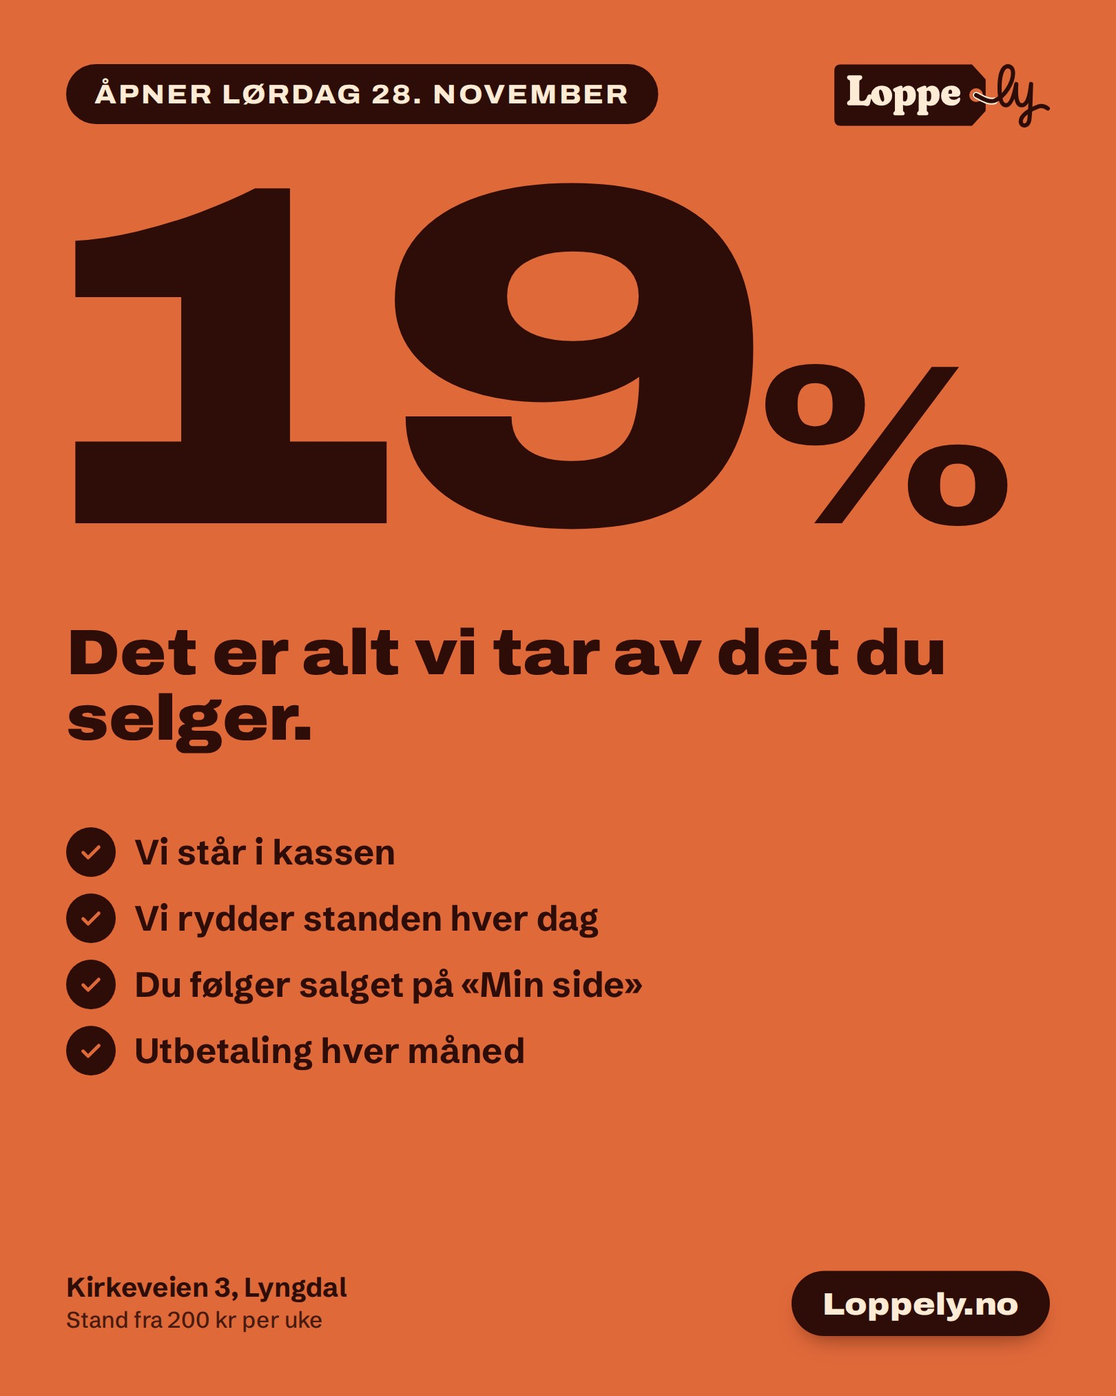
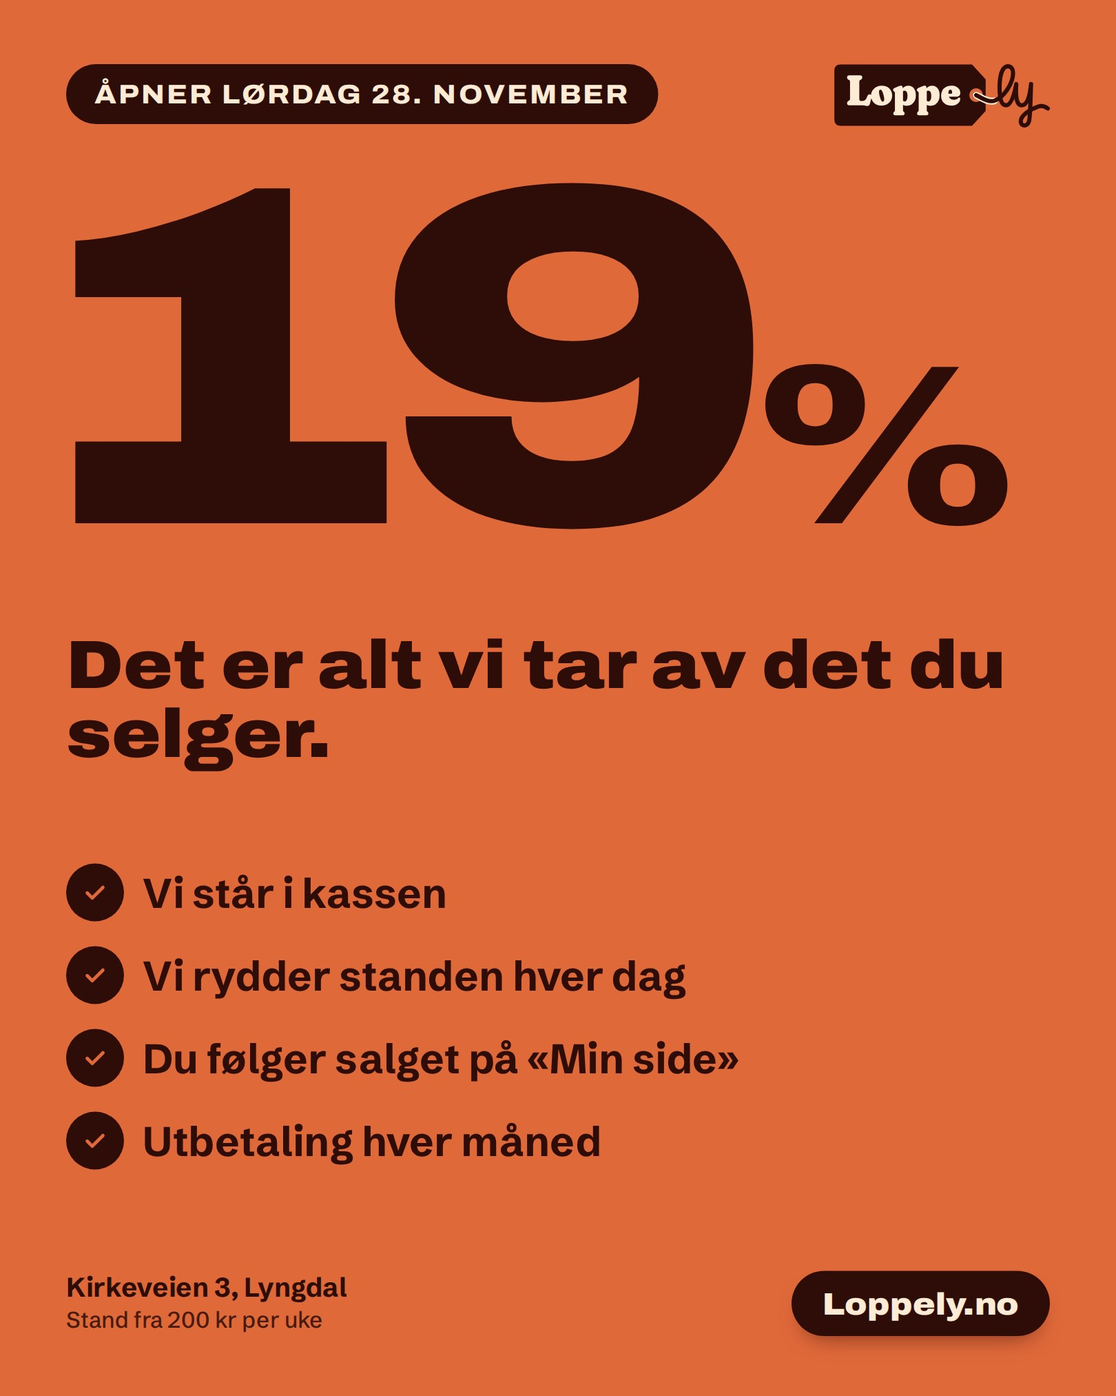
ads: polish pass on the new posts (spacing, bigger type, fuller receipt)
Claude-Session: https://claude.ai/code/session_01RRhAi942qst8ZUNjrS2TNS

Changed region(s): [[0.0617, 0.5911, 0.679, 0.84], [0.0617, 0.4356, 0.8951, 0.56]]

diff --git a/ads/index.html b/ads/index.html
@@ -47,7 +47,7 @@ footer a{color:inherit}
   </div>
   <div class="grid">
   <article class="card" id="01-konsept">
-    <a class="img" href="01-konsept.jpg?v=09291029" target="_blank"><img src="01-konsept.jpg?v=09291029" width="1620" height="2025" loading="lazy" alt="Konseptet på ett bilde"></a>
+    <a class="img" href="01-konsept.jpg?v=09291031" target="_blank"><img src="01-konsept.jpg?v=09291031" width="1620" height="2025" loading="lazy" alt="Konseptet på ett bilde"></a>
     <div class="body">
       <h2>Konseptet på ett bilde</h2>
       <p class="when">Første innlegg. Fest det øverst på siden.</p>
@@ -58,11 +58,11 @@ Loppely er et nytt loppesupermarked i Kirkeveien 3 i Lyngdal. Du leier en stand,
 Vi åpner lørdag 28. november.
 
 Les mer og meld interesse på Loppely.no</pre>
-      <div class="btns"><button class="btn copy" type="button">Kopier tekst</button><a class="btn ghost" href="01-konsept.jpg?v=09291029" download="01-konsept.jpg">Last ned bilde</a></div>
+      <div class="btns"><button class="btn copy" type="button">Kopier tekst</button><a class="btn ghost" href="01-konsept.jpg?v=09291031" download="01-konsept.jpg">Last ned bilde</a></div>
     </div>
   </article>
   <article class="card" id="02-slik-funker-det">
-    <a class="img" href="02-slik-funker-det.jpg?v=09291029" target="_blank"><img src="02-slik-funker-det.jpg?v=09291029" width="1620" height="2025" loading="lazy" alt="Slik funker det"></a>
+    <a class="img" href="02-slik-funker-det.jpg?v=09291031" target="_blank"><img src="02-slik-funker-det.jpg?v=09291031" width="1620" height="2025" loading="lazy" alt="Slik funker det"></a>
     <div class="body">
       <h2>Slik funker det</h2>
       <p class="when">Uke 1. Forklarer konseptet steg for steg.</p>
@@ -77,11 +77,11 @@ Du trenger ikke stå der selv. Følg salget på «Min side».
 
 Åpner lørdag 28. november i Kirkeveien 3, Lyngdal.
 Loppely.no</pre>
-      <div class="btns"><button class="btn copy" type="button">Kopier tekst</button><a class="btn ghost" href="02-slik-funker-det.jpg?v=09291029" download="02-slik-funker-det.jpg">Last ned bilde</a></div>
+      <div class="btns"><button class="btn copy" type="button">Kopier tekst</button><a class="btn ghost" href="02-slik-funker-det.jpg?v=09291031" download="02-slik-funker-det.jpg">Last ned bilde</a></div>
     </div>
   </article>
   <article class="card" id="03-her-er-vi">
-    <a class="img" href="03-her-er-vi.jpg?v=09291029" target="_blank"><img src="03-her-er-vi.jpg?v=09291029" width="1620" height="2025" loading="lazy" alt="Her finner du oss"></a>
+    <a class="img" href="03-her-er-vi.jpg?v=09291031" target="_blank"><img src="03-her-er-vi.jpg?v=09291031" width="1620" height="2025" loading="lazy" alt="Her finner du oss"></a>
     <div class="body">
       <h2>Her finner du oss</h2>
       <p class="when">Uke 2, og igjen uka før åpning.</p>
@@ -93,11 +93,11 @@ Loppely ligger i Kirkeveien 3, midt i Lyngdal sentrum. Gå rett ned trappen, så
 Vi åpner lørdag 28. november.
 
 Veibeskrivelse på Loppely.no</pre>
-      <div class="btns"><button class="btn copy" type="button">Kopier tekst</button><a class="btn ghost" href="03-her-er-vi.jpg?v=09291029" download="03-her-er-vi.jpg">Last ned bilde</a></div>
+      <div class="btns"><button class="btn copy" type="button">Kopier tekst</button><a class="btn ghost" href="03-her-er-vi.jpg?v=09291031" download="03-her-er-vi.jpg">Last ned bilde</a></div>
     </div>
   </article>
   <article class="card" id="04-priser">
-    <a class="img" href="04-priser.jpg?v=09291029" target="_blank"><img src="04-priser.jpg?v=09291029" width="1620" height="2025" loading="lazy" alt="Priser"></a>
+    <a class="img" href="04-priser.jpg?v=09291031" target="_blank"><img src="04-priser.jpg?v=09291031" width="1620" height="2025" loading="lazy" alt="Priser"></a>
     <div class="body">
       <h2>Priser</h2>
       <p class="when">Uke 2. Svarer på «hva koster det?».</p>
@@ -110,11 +110,11 @@ VIP: fra 349 kr per uke og 29% provisjon. Du leverer varene, vi gjør resten.
 Alle priser inkluderer mva. Laveste pris gjelder ved leie i 4 uker.
 
 Se alt på Loppely.no</pre>
-      <div class="btns"><button class="btn copy" type="button">Kopier tekst</button><a class="btn ghost" href="04-priser.jpg?v=09291029" download="04-priser.jpg">Last ned bilde</a></div>
+      <div class="btns"><button class="btn copy" type="button">Kopier tekst</button><a class="btn ghost" href="04-priser.jpg?v=09291031" download="04-priser.jpg">Last ned bilde</a></div>
     </div>
   </article>
   <article class="card" id="05-utbetalt">
-    <a class="img" href="05-utbetalt.jpg?v=09291029" target="_blank"><img src="05-utbetalt.jpg?v=09291029" width="1620" height="2025" loading="lazy" alt="Dette får du utbetalt"></a>
+    <a class="img" href="05-utbetalt.jpg?v=09291031" target="_blank"><img src="05-utbetalt.jpg?v=09291031" width="1620" height="2025" loading="lazy" alt="Dette får du utbetalt"></a>
     <div class="body">
       <h2>Dette får du utbetalt</h2>
       <p class="when">Uke 3. Gjør regnestykket konkret.</p>
@@ -125,11 +125,11 @@ Selger du noe for 500 kr hos Loppely, får du 405 kr. Provisjonen er 19%, og den
 Pengene betales ut til kontoen din hver måned.
 
 Regn på flere eksempler på Loppely.no</pre>
-      <div class="btns"><button class="btn copy" type="button">Kopier tekst</button><a class="btn ghost" href="05-utbetalt.jpg?v=09291029" download="05-utbetalt.jpg">Last ned bilde</a></div>
+      <div class="btns"><button class="btn copy" type="button">Kopier tekst</button><a class="btn ghost" href="05-utbetalt.jpg?v=09291031" download="05-utbetalt.jpg">Last ned bilde</a></div>
     </div>
   </article>
   <article class="card" id="06-forste-uke-gratis">
-    <a class="img" href="06-forste-uke-gratis.jpg?v=09291029" target="_blank"><img src="06-forste-uke-gratis.jpg?v=09291029" width="1620" height="2025" loading="lazy" alt="Første uke gratis"></a>
+    <a class="img" href="06-forste-uke-gratis.jpg?v=09291031" target="_blank"><img src="06-forste-uke-gratis.jpg?v=09291031" width="1620" height="2025" loading="lazy" alt="Første uke gratis"></a>
     <div class="body">
       <h2>Første uke gratis</h2>
       <p class="when">Når dere vil ha flere på interesselista.</p>
@@ -140,11 +140,11 @@ Meld interesse på Loppely.no, så får du første uke gratis når du leier stan
 Det er gratis og uforpliktende å stå på lista. Vi tar kontakt før åpning.
 
 Loppely åpner lørdag 28. november i Kirkeveien 3, Lyngdal.</pre>
-      <div class="btns"><button class="btn copy" type="button">Kopier tekst</button><a class="btn ghost" href="06-forste-uke-gratis.jpg?v=09291029" download="06-forste-uke-gratis.jpg">Last ned bilde</a></div>
+      <div class="btns"><button class="btn copy" type="button">Kopier tekst</button><a class="btn ghost" href="06-forste-uke-gratis.jpg?v=09291031" download="06-forste-uke-gratis.jpg">Last ned bilde</a></div>
     </div>
   </article>
   <article class="card" id="07-hva-kan-du-selge">
-    <a class="img" href="07-hva-kan-du-selge.jpg?v=09291029" target="_blank"><img src="07-hva-kan-du-selge.jpg?v=09291029" width="1620" height="2025" loading="lazy" alt="Hva kan du selge?"></a>
+    <a class="img" href="07-hva-kan-du-selge.jpg?v=09291031" target="_blank"><img src="07-hva-kan-du-selge.jpg?v=09291031" width="1620" height="2025" loading="lazy" alt="Hva kan du selge?"></a>
     <div class="body">
       <h2>Hva kan du selge?</h2>
       <p class="when">Uke 3. Får folk til å tenke på boden sin.</p>
@@ -155,11 +155,11 @@ Hos Loppely kan du selge klær, barneting, leker, bøker, kjøkkenutstyr, sports
 Større ting som sykler, barnevogner og mindre møbler selger du for 39 kr per uke.
 
 Se hva du kan selge på Loppely.no</pre>
-      <div class="btns"><button class="btn copy" type="button">Kopier tekst</button><a class="btn ghost" href="07-hva-kan-du-selge.jpg?v=09291029" download="07-hva-kan-du-selge.jpg">Last ned bilde</a></div>
+      <div class="btns"><button class="btn copy" type="button">Kopier tekst</button><a class="btn ghost" href="07-hva-kan-du-selge.jpg?v=09291031" download="07-hva-kan-du-selge.jpg">Last ned bilde</a></div>
     </div>
   </article>
   <article class="card" id="08-vip">
-    <a class="img" href="08-vip.jpg?v=09291029" target="_blank"><img src="08-vip.jpg?v=09291029" width="1620" height="2025" loading="lazy" alt="VIP: Vi gjør alt"></a>
+    <a class="img" href="08-vip.jpg?v=09291031" target="_blank"><img src="08-vip.jpg?v=09291031" width="1620" height="2025" loading="lazy" alt="VIP: Vi gjør alt"></a>
     <div class="body">
       <h2>VIP: Vi gjør alt</h2>
       <p class="when">For dem som ikke har tid.</p>
@@ -170,11 +170,11 @@ Du leverer varene, så tar vi bilder, priser og registrerer dem, og gjør stande
 Fra 349 kr per uke og 29% provisjon.
 
 Les mer på Loppely.no</pre>
-      <div class="btns"><button class="btn copy" type="button">Kopier tekst</button><a class="btn ghost" href="08-vip.jpg?v=09291029" download="08-vip.jpg">Last ned bilde</a></div>
+      <div class="btns"><button class="btn copy" type="button">Kopier tekst</button><a class="btn ghost" href="08-vip.jpg?v=09291031" download="08-vip.jpg">Last ned bilde</a></div>
     </div>
   </article>
   <article class="card" id="09-merk-datoen">
-    <a class="img" href="09-merk-datoen.jpg?v=09291029" target="_blank"><img src="09-merk-datoen.jpg?v=09291029" width="1620" height="2025" loading="lazy" alt="Merk datoen"></a>
+    <a class="img" href="09-merk-datoen.jpg?v=09291031" target="_blank"><img src="09-merk-datoen.jpg?v=09291031" width="1620" height="2025" loading="lazy" alt="Merk datoen"></a>
     <div class="body">
       <h2>Merk datoen</h2>
       <p class="when">2 til 3 uker før åpning, og dagen før.</p>
@@ -184,11 +184,11 @@ Lørdag 28. november kl. 10 åpner Loppely i Kirkeveien 3, Lyngdal. Et helt nytt
 
 Vil du selge? Meld interesse på Loppely.no
 Vil du handle? Vi sees 28. november!</pre>
-      <div class="btns"><button class="btn copy" type="button">Kopier tekst</button><a class="btn ghost" href="09-merk-datoen.jpg?v=09291029" download="09-merk-datoen.jpg">Last ned bilde</a></div>
+      <div class="btns"><button class="btn copy" type="button">Kopier tekst</button><a class="btn ghost" href="09-merk-datoen.jpg?v=09291031" download="09-merk-datoen.jpg">Last ned bilde</a></div>
     </div>
   </article>
   <article class="card" id="10-rydd-til-jul">
-    <a class="img" href="10-rydd-til-jul.jpg?v=09291029" target="_blank"><img src="10-rydd-til-jul.jpg?v=09291029" width="1620" height="2025" loading="lazy" alt="Rydd plass til jul"></a>
+    <a class="img" href="10-rydd-til-jul.jpg?v=09291031" target="_blank"><img src="10-rydd-til-jul.jpg?v=09291031" width="1620" height="2025" loading="lazy" alt="Rydd plass til jul"></a>
     <div class="body">
       <h2>Rydd plass til jul</h2>
       <p class="when">Fra midten av november.</p>
@@ -199,11 +199,11 @@ Leker barna har vokst fra, klær som ikke passer, ting som bare står i boden. D
 Lei en stand hos Loppely, så selger vi for deg gjennom hele julehandelen. Vi åpner lørdag 28. november.
 
 Loppely.no</pre>
-      <div class="btns"><button class="btn copy" type="button">Kopier tekst</button><a class="btn ghost" href="10-rydd-til-jul.jpg?v=09291029" download="10-rydd-til-jul.jpg">Last ned bilde</a></div>
+      <div class="btns"><button class="btn copy" type="button">Kopier tekst</button><a class="btn ghost" href="10-rydd-til-jul.jpg?v=09291031" download="10-rydd-til-jul.jpg">Last ned bilde</a></div>
     </div>
   </article>
   <article class="card" id="11-hvem-er-vi">
-    <a class="img" href="11-hvem-er-vi.jpg?v=09291029" target="_blank"><img src="11-hvem-er-vi.jpg?v=09291029" width="1620" height="2025" loading="lazy" alt="Hvem er vi"></a>
+    <a class="img" href="11-hvem-er-vi.jpg?v=09291031" target="_blank"><img src="11-hvem-er-vi.jpg?v=09291031" width="1620" height="2025" loading="lazy" alt="Hvem er vi"></a>
     <div class="body">
       <h2>Hvem er vi</h2>
       <p class="when">Tidlig. Folk handler med folk.</p>
@@ -214,11 +214,11 @@ Vi åpner Loppely i Lyngdal fordi vi mener gode ting fortjener et nytt hjem, og 
 Lørdag 28. november åpner vi dørene i Kirkeveien 3. Vi gleder oss til å se dere!
 
 Loppely.no</pre>
-      <div class="btns"><button class="btn copy" type="button">Kopier tekst</button><a class="btn ghost" href="11-hvem-er-vi.jpg?v=09291029" download="11-hvem-er-vi.jpg">Last ned bilde</a></div>
+      <div class="btns"><button class="btn copy" type="button">Kopier tekst</button><a class="btn ghost" href="11-hvem-er-vi.jpg?v=09291031" download="11-hvem-er-vi.jpg">Last ned bilde</a></div>
     </div>
   </article>
   <article class="card" id="12-for-og-etter">
-    <a class="img" href="12-for-og-etter.jpg?v=09291029" target="_blank"><img src="12-for-og-etter.jpg?v=09291029" width="1620" height="2025" loading="lazy" alt="Før og etter"></a>
+    <a class="img" href="12-for-og-etter.jpg?v=09291031" target="_blank"><img src="12-for-og-etter.jpg?v=09291031" width="1620" height="2025" loading="lazy" alt="Før og etter"></a>
     <div class="body">
       <h2>Før og etter</h2>
       <p class="when">Når som helst. Viser gevinsten på ett blikk.</p>
@@ -228,11 +228,11 @@ Lei en stand hos Loppely, sett prisen, og la oss selge tingene for deg. Du får 
 
 Åpner lørdag 28. november i Kirkeveien 3, Lyngdal.
 Loppely.no</pre>
-      <div class="btns"><button class="btn copy" type="button">Kopier tekst</button><a class="btn ghost" href="12-for-og-etter.jpg?v=09291029" download="12-for-og-etter.jpg">Last ned bilde</a></div>
+      <div class="btns"><button class="btn copy" type="button">Kopier tekst</button><a class="btn ghost" href="12-for-og-etter.jpg?v=09291031" download="12-for-og-etter.jpg">Last ned bilde</a></div>
     </div>
   </article>
   <article class="card" id="13-avstemning">
-    <a class="img" href="13-avstemning.jpg?v=09291029" target="_blank"><img src="13-avstemning.jpg?v=09291029" width="1620" height="2025" loading="lazy" alt="Avstemning: Hva ligger i boden?"></a>
+    <a class="img" href="13-avstemning.jpg?v=09291031" target="_blank"><img src="13-avstemning.jpg?v=09291031" width="1620" height="2025" loading="lazy" alt="Avstemning: Hva ligger i boden?"></a>
     <div class="body">
       <h2>Avstemning: Hva ligger i boden?</h2>
       <p class="when">For engasjement. Svar på kommentarene.</p>
@@ -246,11 +246,11 @@ D. Alt mulig rart
 Svar med bokstaven i kommentarfeltet. Uansett svar: alt dette kan du selge hos Loppely fra 28. november.
 
 Loppely.no</pre>
-      <div class="btns"><button class="btn copy" type="button">Kopier tekst</button><a class="btn ghost" href="13-avstemning.jpg?v=09291029" download="13-avstemning.jpg">Last ned bilde</a></div>
+      <div class="btns"><button class="btn copy" type="button">Kopier tekst</button><a class="btn ghost" href="13-avstemning.jpg?v=09291031" download="13-avstemning.jpg">Last ned bilde</a></div>
     </div>
   </article>
   <article class="card" id="14-19-prosent">
-    <a class="img" href="14-19-prosent.jpg?v=09291029" target="_blank"><img src="14-19-prosent.jpg?v=09291029" width="1620" height="2025" loading="lazy" alt="19%"></a>
+    <a class="img" href="14-19-prosent.jpg?v=09291031" target="_blank"><img src="14-19-prosent.jpg?v=09291031" width="1620" height="2025" loading="lazy" alt="19%"></a>
     <div class="body">
       <h2>19%</h2>
       <p class="when">Uke 3. Enkelt og tydelig.</p>
@@ -260,11 +260,11 @@ For det står vi i kassen, rydder standen hver dag, og du følger salget på «M
 
 Stand fra 200 kr per uke. Åpner 28. november.
 Loppely.no</pre>
-      <div class="btns"><button class="btn copy" type="button">Kopier tekst</button><a class="btn ghost" href="14-19-prosent.jpg?v=09291029" download="14-19-prosent.jpg">Last ned bilde</a></div>
+      <div class="btns"><button class="btn copy" type="button">Kopier tekst</button><a class="btn ghost" href="14-19-prosent.jpg?v=09291031" download="14-19-prosent.jpg">Last ned bilde</a></div>
     </div>
   </article>
   <article class="card" id="15-prislapp">
-    <a class="img" href="15-prislapp.jpg?v=09291029" target="_blank"><img src="15-prislapp.jpg?v=09291029" width="1620" height="2025" loading="lazy" alt="Prislappen"></a>
+    <a class="img" href="15-prislapp.jpg?v=09291031" target="_blank"><img src="15-prislapp.jpg?v=09291031" width="1620" height="2025" loading="lazy" alt="Prislappen"></a>
     <div class="body">
       <h2>Prislappen</h2>
       <p class="when">Når som helst. Blikkfang i feeden.</p>
@@ -274,11 +274,11 @@ Hos Loppely bestemmer du hva tingene dine skal koste. Du registrerer varene, skr
 
 Åpner lørdag 28. november.
 Loppely.no</pre>
-      <div class="btns"><button class="btn copy" type="button">Kopier tekst</button><a class="btn ghost" href="15-prislapp.jpg?v=09291029" download="15-prislapp.jpg">Last ned bilde</a></div>
+      <div class="btns"><button class="btn copy" type="button">Kopier tekst</button><a class="btn ghost" href="15-prislapp.jpg?v=09291031" download="15-prislapp.jpg">Last ned bilde</a></div>
     </div>
   </article>
   <article class="card" id="16-sjekkliste">
-    <a class="img" href="16-sjekkliste.jpg?v=09291029" target="_blank"><img src="16-sjekkliste.jpg?v=09291029" width="1620" height="2025" loading="lazy" alt="Sjekkliste før du leverer"></a>
+    <a class="img" href="16-sjekkliste.jpg?v=09291031" target="_blank"><img src="16-sjekkliste.jpg?v=09291031" width="1620" height="2025" loading="lazy" alt="Sjekkliste før du leverer"></a>
     <div class="body">
       <h2>Sjekkliste før du leverer</h2>
       <p class="when">Uka før åpning.</p>
@@ -293,11 +293,11 @@ Loppely.no</pre>
 Så er standen klar, og du får plass hjemme igjen. Vil du slippe alt dette? Velg VIP, så gjør vi det for deg.
 
 Loppely.no</pre>
-      <div class="btns"><button class="btn copy" type="button">Kopier tekst</button><a class="btn ghost" href="16-sjekkliste.jpg?v=09291029" download="16-sjekkliste.jpg">Last ned bilde</a></div>
+      <div class="btns"><button class="btn copy" type="button">Kopier tekst</button><a class="btn ghost" href="16-sjekkliste.jpg?v=09291031" download="16-sjekkliste.jpg">Last ned bilde</a></div>
     </div>
   </article>
   <article class="card" id="17-bra-for-alle">
-    <a class="img" href="17-bra-for-alle.jpg?v=09291029" target="_blank"><img src="17-bra-for-alle.jpg?v=09291029" width="1620" height="2025" loading="lazy" alt="Bra for lommeboka og miljøet"></a>
+    <a class="img" href="17-bra-for-alle.jpg?v=09291031" target="_blank"><img src="17-bra-for-alle.jpg?v=09291031" width="1620" height="2025" loading="lazy" alt="Bra for lommeboka og miljøet"></a>
     <div class="body">
       <h2>Bra for lommeboka og miljøet</h2>
       <p class="when">Når som helst. Myk og positiv.</p>
@@ -307,11 +307,11 @@ Når du selger det du ikke bruker, får du penger og plass hjemme. Og tingene di
 
 Loppely åpner i Lyngdal lørdag 28. november.
 Loppely.no</pre>
-      <div class="btns"><button class="btn copy" type="button">Kopier tekst</button><a class="btn ghost" href="17-bra-for-alle.jpg?v=09291029" download="17-bra-for-alle.jpg">Last ned bilde</a></div>
+      <div class="btns"><button class="btn copy" type="button">Kopier tekst</button><a class="btn ghost" href="17-bra-for-alle.jpg?v=09291031" download="17-bra-for-alle.jpg">Last ned bilde</a></div>
     </div>
   </article>
   <article class="card" id="18-min-side">
-    <a class="img" href="18-min-side.jpg?v=09291029" target="_blank"><img src="18-min-side.jpg?v=09291029" width="1620" height="2025" loading="lazy" alt="Følg salget på mobilen"></a>
+    <a class="img" href="18-min-side.jpg?v=09291031" target="_blank"><img src="18-min-side.jpg?v=09291031" width="1620" height="2025" loading="lazy" alt="Følg salget på mobilen"></a>
     <div class="body">
       <h2>Følg salget på mobilen</h2>
       <p class="when">Uke 3. Viser «Min side».</p>
@@ -321,11 +321,11 @@ På «Min side» ser du hva som er solgt, hva som står igjen, og hvor mye du ha
 
 Loppely åpner lørdag 28. november.
 Loppely.no</pre>
-      <div class="btns"><button class="btn copy" type="button">Kopier tekst</button><a class="btn ghost" href="18-min-side.jpg?v=09291029" download="18-min-side.jpg">Last ned bilde</a></div>
+      <div class="btns"><button class="btn copy" type="button">Kopier tekst</button><a class="btn ghost" href="18-min-side.jpg?v=09291031" download="18-min-side.jpg">Last ned bilde</a></div>
     </div>
   </article>
   <article class="card" id="19-sporsmal-og-svar">
-    <a class="img" href="19-sporsmal-og-svar.jpg?v=09291029" target="_blank"><img src="19-sporsmal-og-svar.jpg?v=09291029" width="1620" height="2025" loading="lazy" alt="Spørsmål og svar"></a>
+    <a class="img" href="19-sporsmal-og-svar.jpg?v=09291031" target="_blank"><img src="19-sporsmal-og-svar.jpg?v=09291031" width="1620" height="2025" loading="lazy" alt="Spørsmål og svar"></a>
     <div class="body">
       <h2>Spørsmål og svar</h2>
       <p class="when">Uke 2 til 4. Fjerner tvil.</p>
@@ -336,27 +336,27 @@ Hvem setter prisen? Du. Og du kan endre den underveis.
 Når får jeg pengene? Utbetaling hver måned.
 
 Har du flere spørsmål? Skriv i kommentarfeltet, eller les mer på Loppely.no</pre>
-      <div class="btns"><button class="btn copy" type="button">Kopier tekst</button><a class="btn ghost" href="19-sporsmal-og-svar.jpg?v=09291029" download="19-sporsmal-og-svar.jpg">Last ned bilde</a></div>
+      <div class="btns"><button class="btn copy" type="button">Kopier tekst</button><a class="btn ghost" href="19-sporsmal-og-svar.jpg?v=09291031" download="19-sporsmal-og-svar.jpg">Last ned bilde</a></div>
     </div>
   </article>
   <article class="card" id="20-kvittering">
-    <a class="img" href="20-kvittering.jpg?v=09291029" target="_blank"><img src="20-kvittering.jpg?v=09291029" width="1620" height="2025" loading="lazy" alt="Kvitteringen"></a>
+    <a class="img" href="20-kvittering.jpg?v=09291031" target="_blank"><img src="20-kvittering.jpg?v=09291031" width="1620" height="2025" loading="lazy" alt="Kvitteringen"></a>
     <div class="body">
       <h2>Kvitteringen</h2>
       <p class="when">Uke 3 eller 4. Konkret og morsom.</p>
       <pre class="cap">Slik kan en uke se ut 🧾
 
-Barnesykkel 250 kr, Marius-genser 150 kr og Figgjo-kopper 120 kr. Solgt for 520 kr. Du får 421,20 kr, og vi har tatt oss av alt salget.
+Barnesykkel, Marius-genser, Figgjo-kopper, kjelke og Donald-blader. Solgt for 650 kr til sammen. Du får 526,50 kr, og vi har tatt oss av alt salget.
 
 Tallene er et eksempel. Du setter prisene selv.
 
 Loppely åpner lørdag 28. november.
 Loppely.no</pre>
-      <div class="btns"><button class="btn copy" type="button">Kopier tekst</button><a class="btn ghost" href="20-kvittering.jpg?v=09291029" download="20-kvittering.jpg">Last ned bilde</a></div>
+      <div class="btns"><button class="btn copy" type="button">Kopier tekst</button><a class="btn ghost" href="20-kvittering.jpg?v=09291031" download="20-kvittering.jpg">Last ned bilde</a></div>
     </div>
   </article>
   <article class="card" id="21-tagg-en-venn">
-    <a class="img" href="21-tagg-en-venn.jpg?v=09291029" target="_blank"><img src="21-tagg-en-venn.jpg?v=09291029" width="1620" height="2025" loading="lazy" alt="Tagg en venn"></a>
+    <a class="img" href="21-tagg-en-venn.jpg?v=09291031" target="_blank"><img src="21-tagg-en-venn.jpg?v=09291031" width="1620" height="2025" loading="lazy" alt="Tagg en venn"></a>
     <div class="body">
       <h2>Tagg en venn</h2>
       <p class="when">For rekkevidde. Når som helst.</p>
@@ -366,7 +366,7 @@ Vi vet alle om en med full bod, et overfylt klesskap eller et barnerom med leker
 
 Åpner lørdag 28. november i Kirkeveien 3, Lyngdal.
 Loppely.no</pre>
-      <div class="btns"><button class="btn copy" type="button">Kopier tekst</button><a class="btn ghost" href="21-tagg-en-venn.jpg?v=09291029" download="21-tagg-en-venn.jpg">Last ned bilde</a></div>
+      <div class="btns"><button class="btn copy" type="button">Kopier tekst</button><a class="btn ghost" href="21-tagg-en-venn.jpg?v=09291031" download="21-tagg-en-venn.jpg">Last ned bilde</a></div>
     </div>
   </article>
   </div>
